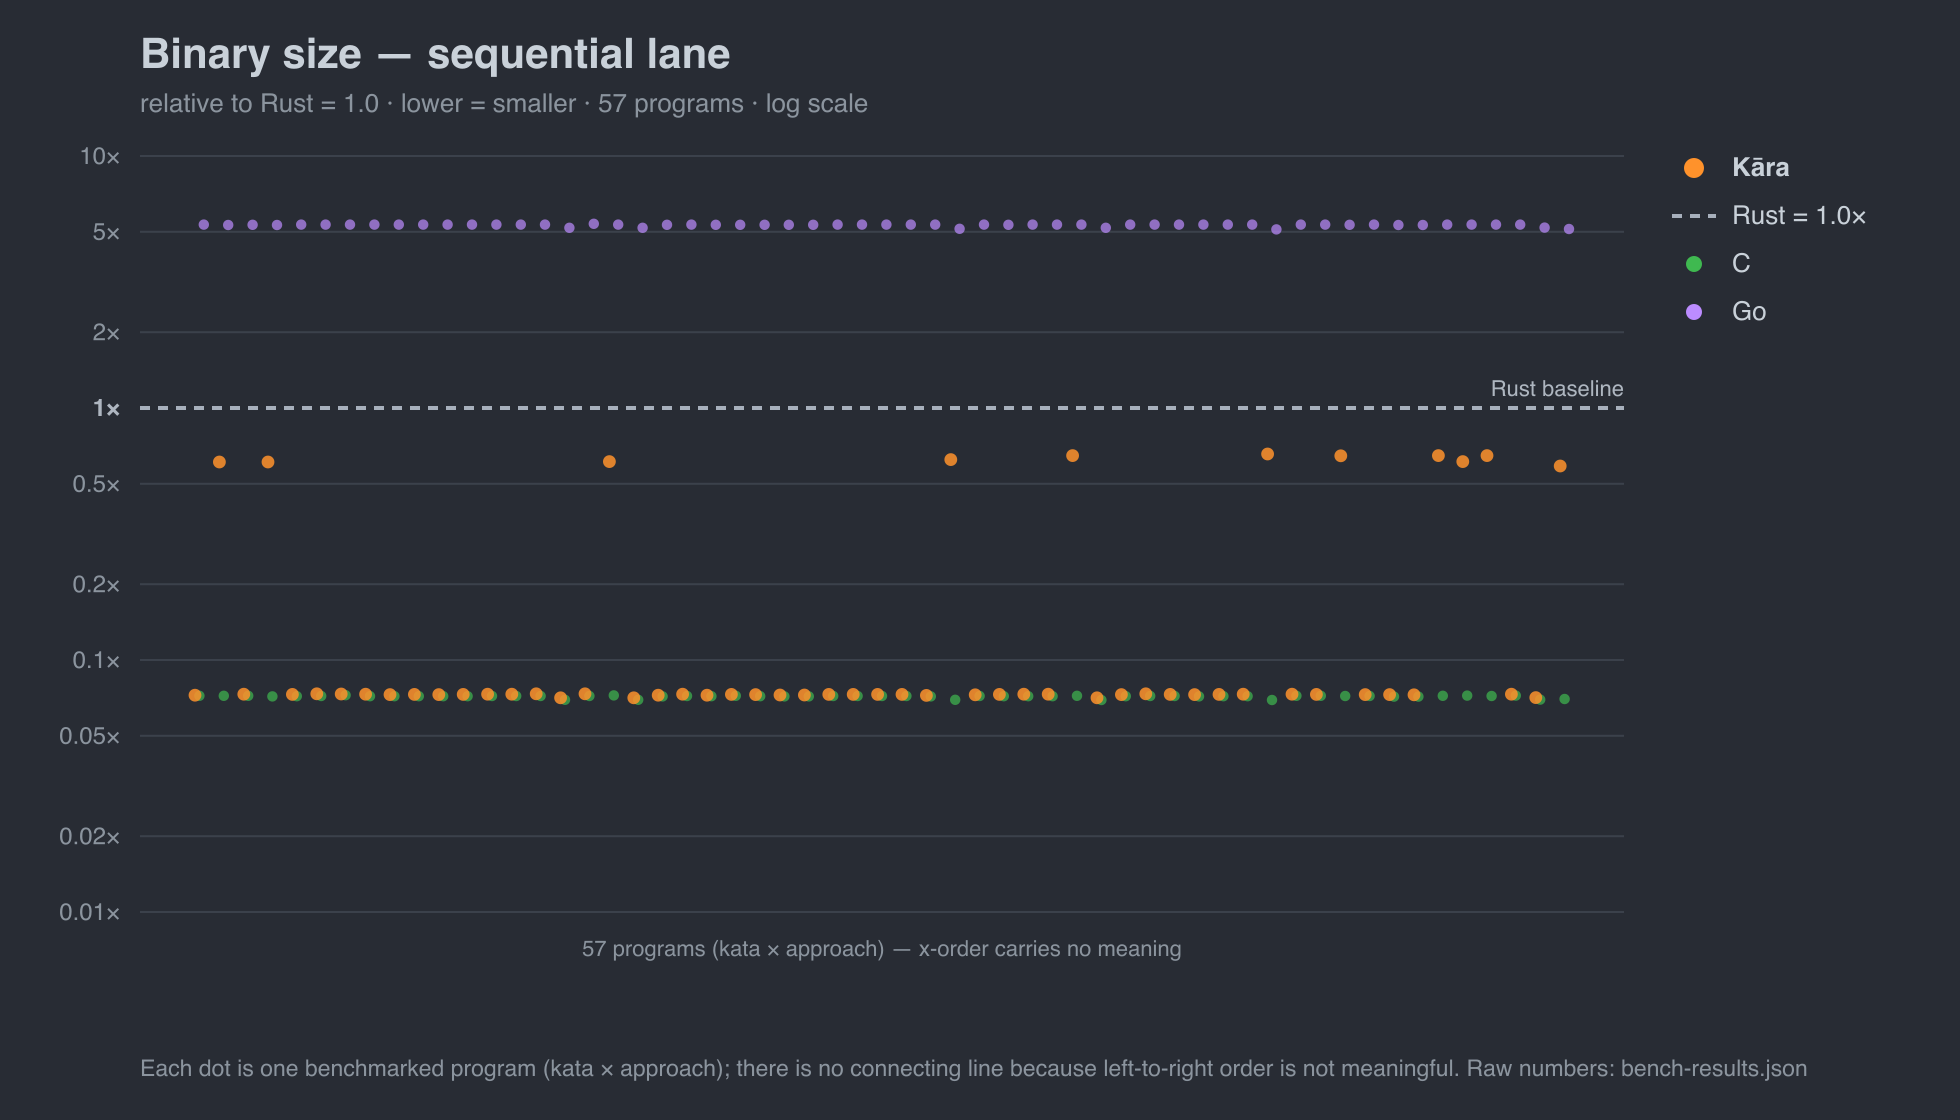
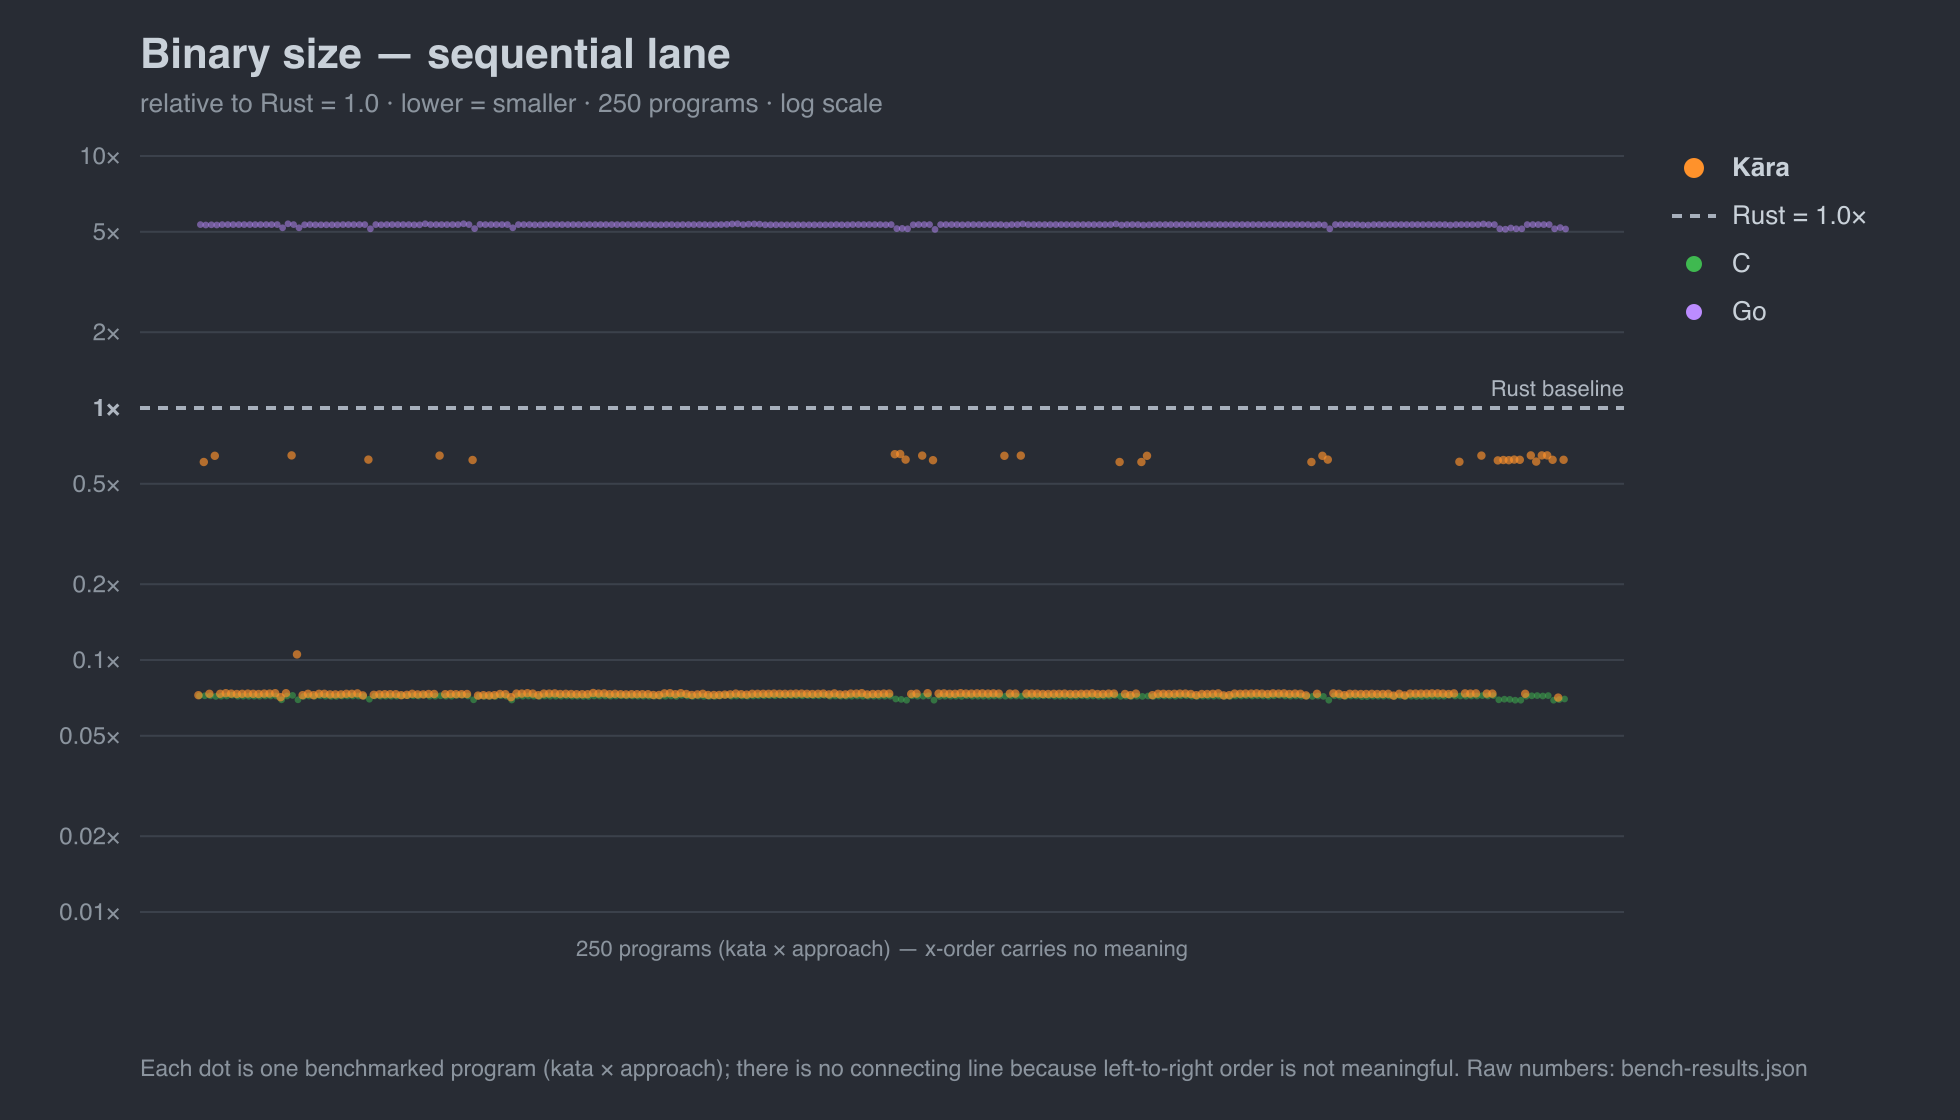
docs(readme): refresh the benchmark charts and the numbers around them
docs/assets/ had drifted badly: the sequential-runtime chart the README
renders was still the 57-program version while kara-katas had 251. Resynced
all three via scripts/sync-bench-charts.sh.

The prose beside them had drifted with it, so the figures now match the
charts they caption (recomputed from bench-results.json):

  corpus            30+ -> 246 kernels
  par comparator    31 -> 36 programs
  median vs rayon   1.13x -> 1.14x
  beats rayon       seven -> nine (best #22 0.47x -> 0.58x; #23/#133 no
                    longer qualify, #20/#86 do)
  beats goroutines  24 of 31 -> 27 of 36
  worst par kernel  #71 simplify -> #3629 bfs_sieve
  Go binary vs C    ~70x -> ~74x

Unchanged and re-verified, not assumed: the raw-pthreads C floor still ties
on nine, C-sized binaries still ~33 KiB, Rust still ~14x C, and the
equal-safety pair still reads 1.01x tax / kara at 1.00x.

Claude-Session: https://claude.ai/code/session_018MTanwwo4hyQgyZ6Ri3NNh

diff --git a/README.md b/README.md
@@ -292,7 +292,7 @@ raw numbers: **[bench-results.json](https://github.com/karalang/kara-katas/blob/
 These benchmarks are validation, not a value proposition: the bar is
 **parity** — that Kāra's safety, ownership, and effect abstractions land
 production-class workloads within a few percent of Rust/C, with no
-performance cliff. The corpus is also a correctness exercise — 30+
+performance cliff. The corpus is also a correctness exercise — 246
 algorithm kernels spanning control flow, generics, collections, pattern
 matching, ownership, and codegen, where small programs surface a
 disproportionate share of compiler bugs.
@@ -317,7 +317,7 @@ trails on most single-threaded work.
 ![Binary size, sequential lane — relative to Rust, log scale](docs/assets/binary-seq.png)
 
 C-sized binaries (~33 KiB) for most programs, rising to a ~285 KiB floor
-when the larger runtime surface links. Rust ~14× above C; Go ~70×
+when the larger runtime surface links. Rust ~14× above C; Go ~74×
 (runtime + GC in every binary).
 
 - **Runtime memory** ([chart](https://github.com/karalang/kara-katas/blob/main/graphs/rss-seq.png)) — Kāra/C/Rust at parity; Kāra runs leak-free at native footprint. Go's GC heap is 2–8×.
@@ -334,14 +334,14 @@ program; lower is faster; everything relative to **Rust = 1.0**.
 
 ![Runtime, parallel lane — Kāra auto-par vs Rust rayon / Go / C-pthreads, relative to Rust](docs/assets/runtime-par.png)
 
-Across the **31 programs** that currently ship the full parallel comparator set,
-Kāra's auto-par runs at a median **1.13× of hand-tuned `rayon`** (typically within
-~10–15%), is **faster than `rayon` outright on seven** (best #22 0.47×, #23, #11,
-#133), beats Go's goroutines on **24 of 31** — often by multiples, as dispatch
+Across the **36 programs** that currently ship the full parallel comparator set,
+Kāra's auto-par runs at a median **1.14× of hand-tuned `rayon`** (typically within
+~10–15%), is **faster than `rayon` outright on nine** (best #22 0.58×, #20, #11,
+#86), beats Go's goroutines on **27 of 36** — often by multiples, as dispatch
 overhead swamps fine-grained reductions — and **edges or matches the raw-pthreads
 C floor on nine** of the allocation-heavy ones, for **none** of the engineering
 cost. It is not uniformly fastest — a few string-/allocation-churn kernels trail
-both C and Go (worst #71 simplify). More points land automatically as parallel
+both C and Go (worst #3629 bfs_sieve). More points land automatically as parallel
 katas are added.
 
 The intra-Kāra view of the same effect (same source, auto-par vs its own
